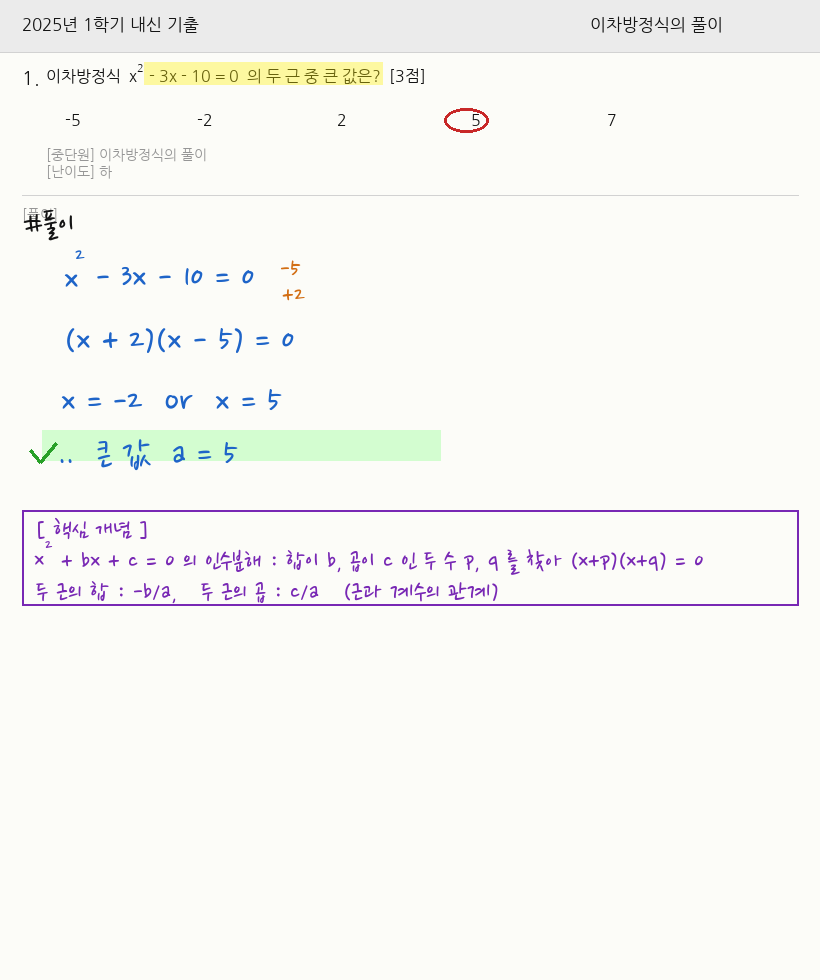
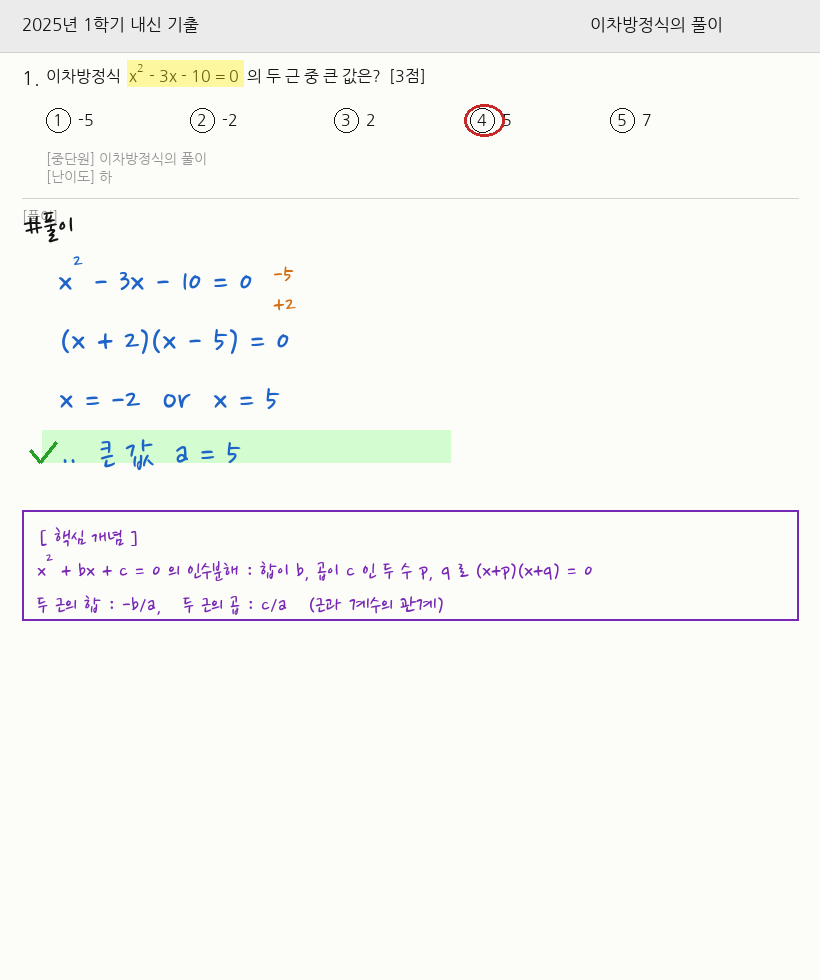
fix: layout — dynamic highlighter position, box padding, circled choice numbers

diff --git a/scripts/generate_examples.py b/scripts/generate_examples.py
@@ -8,13 +8,13 @@ REPO = Path(__file__).parent.parent
 FONTS_DIR = REPO / "fonts"
 OUT_DIR = REPO / "docs" / "examples"
 
-PEN = str(FONTS_DIR / "NanumPenScript-Regular.ttf")
+PEN   = str(FONTS_DIR / "NanumPenScript-Regular.ttf")
 GOTHIC = str(FONTS_DIR / "NanumGothic-Regular.ttf")
 
 W, H = 820, 980
-BG = (252, 252, 248)
-BLACK = (20, 20, 20)
-GRAY = (150, 150, 150)
+BG         = (252, 252, 248)
+BLACK      = (20, 20, 20)
+GRAY       = (150, 150, 150)
 LIGHT_GRAY = (210, 210, 210)
 
 BLUE   = (30, 100, 200)
@@ -39,132 +39,140 @@ def highlight(img, x1, y1, x2, y2, color):
     return base.convert("RGB")
 
 
-def math_width(draw, text, font, sup_font):
-    """Measure pixel width of a math string that uses ^ for superscripts."""
-    w = 0
-    for tok in re.split(r'(\^[0-9a-zA-Z]+)', text):
-        if tok.startswith('^'):
-            w += draw.textlength(tok[1:], font=sup_font)
-        else:
-            w += draw.textlength(tok, font=font)
-    return w
-
-
-def draw_math(draw, x, y, text, font, sup_font, fill, jamt=0):
-    """Draw math text with ^ rendered as raised superscript. Returns final x."""
-    sup_offset = int(font.size * 0.42)   # how far up the superscript sits
+def draw_math(draw, x, y, text, font, sup_font, fill):
+    """Draw math text; ^ marks superscript. No per-token jitter — call jit() before this."""
+    sup_offset = int(font.size * 0.40)
     cursor = x
     for tok in re.split(r'(\^[0-9a-zA-Z]+)', text):
         if tok.startswith('^'):
             sup = tok[1:]
-            jx, jy = jit(cursor, y - sup_offset, jamt)
-            draw.text((jx, jy), sup, font=sup_font, fill=fill)
+            draw.text((int(cursor), y - sup_offset), sup, font=sup_font, fill=fill)
             cursor += draw.textlength(sup, font=sup_font) + 1
         else:
-            jx, jy = jit(cursor, y, jamt)
-            draw.text((jx, jy), tok, font=font, fill=fill)
+            draw.text((int(cursor), y), tok, font=font, fill=fill)
             cursor += draw.textlength(tok, font=font)
-    return cursor
+    return int(cursor)
 
 
-# ──────────────────────────────────────────────
+def draw_choice(draw, x, y, n, label, font, fill):
+    """Draw a circled number + label. Returns x after the item."""
+    text = str(n)
+    tw = int(draw.textlength(text, font=font))
+    th = font.size
+    r  = max(tw, th) // 2 + 4
+    cx, cy = x + r, y + th // 2
+    draw.ellipse([cx - r, cy - r, cx + r, cy + r], outline=fill, width=1)
+    draw.text((cx - tw // 2, y), text, font=font, fill=fill)
+    lx = x + 2 * r + 4
+    draw.text((lx, y), " " + label, font=font, fill=fill)
+    return lx + int(draw.textlength(" " + label, font=font))
+
+
+# ────────────────────────────────────────────────────────────
 def make_input():
-    img = Image.new("RGB", (W, H), BG)
+    img  = Image.new("RGB", (W, H), BG)
     draw = ImageDraw.Draw(img)
 
     g_sm  = ImageFont.truetype(GOTHIC, 14)
     g_md  = ImageFont.truetype(GOTHIC, 17)
     g_lg  = ImageFont.truetype(GOTHIC, 19)
     g_q   = ImageFont.truetype(GOTHIC, 16)
-    g_sup = ImageFont.truetype(GOTHIC, 11)   # superscript for printed text
+    g_sup = ImageFont.truetype(GOTHIC, 11)
 
-    # Header
+    # ── Header ──────────────────────────────────────────────
     draw.rectangle([0, 0, W, 52], fill=(235, 235, 235))
     draw.line([(0, 52), (W, 52)], fill=LIGHT_GRAY, width=1)
     draw.text((22, 16), "2025년 1학기 내신 기출", font=g_md, fill=BLACK)
     draw.text((W - 230, 16), "이차방정식의 풀이", font=g_md, fill=BLACK)
 
-    # Question number
+    # ── Question ────────────────────────────────────────────
     draw.text((22, 68), "1.", font=g_lg, fill=BLACK)
+    # Measure prefix to know where the equation starts for highlighter
+    prefix   = "이차방정식  "
+    eq_str   = "x^2 - 3x - 10 = 0"
+    suffix   = "  의 두 근 중 큰 값은?  [3점]"
+    hl_x1    = 46 + int(draw.textlength(prefix, font=g_q)) - 2
+    hl_x2    = hl_x1 + int(draw.textlength(
+                   re.sub(r'\^[0-9a-zA-Z]+', '', eq_str), font=g_q)) + 14
+    qx = draw_math(draw, 46, 68, prefix + eq_str + suffix, g_q, g_sup, BLACK)
 
-    # Question text with superscript rendered manually
-    qx = 46
-    qy = 68
-    qx = draw_math(draw, qx, qy, "이차방정식  x^2 - 3x - 10 = 0  의 두 근 중 큰 값은?  [3점]",
-                   g_q, g_sup, BLACK)
+    # ── Answer choices (circled numbers drawn manually) ─────
+    CHOICE_Y = 112
+    choices  = [("-5", 46), ("-2", 190), ("2", 334), ("5", 470), ("7", 610)]
+    for i, (label, cx) in enumerate(choices, 1):
+        draw_choice(draw, cx, CHOICE_Y, i, label, g_q, BLACK)
 
-    # Answer choices — record x positions for circle later
-    choices = [("①", "-5"), ("②", "-2"), ("③", "2"), ("④", "5"), ("⑤", "7")]
-    cx_list = [46, 178, 318, 452, 588]
-    for (num, val), cx in zip(choices, cx_list):
-        draw.text((cx, 112), num + " " + val, font=g_q, fill=BLACK)
+    # ── Tags ────────────────────────────────────────────────
+    draw.text((46, 152), "[중단원] 이차방정식의 풀이", font=g_sm, fill=GRAY)
+    draw.text((46, 170), "[난이도] 하",               font=g_sm, fill=GRAY)
 
-    draw.text((46, 148), "[중단원] 이차방정식의 풀이", font=g_sm, fill=GRAY)
-    draw.text((46, 165), "[난이도] 하", font=g_sm, fill=GRAY)
-    draw.line([(22, 195), (W - 22, 195)], fill=LIGHT_GRAY, width=1)
-    draw.text((22, 208), "[풀이]", font=g_sm, fill=GRAY)
+    draw.line([(22, 198), (W - 22, 198)], fill=LIGHT_GRAY, width=1)
+    draw.text((22, 210), "[풀이]", font=g_sm, fill=GRAY)
 
-    return img, cx_list
+    return img, hl_x1, hl_x2
 
 
-def make_output(input_img, cx_list):
-    # Yellow highlight on the equation in the question
-    img = highlight(input_img, 144, 62, 382, 84, HL_YELLOW)
-    # Green highlight on final answer line (added later; placeholder y used)
-    img = highlight(img, 42, 430, 440, 460, HL_GREEN)
+def make_output(input_img, hl_x1, hl_x2):
+    # ── Highlights ──────────────────────────────────────────
+    # Yellow: key equation in the question (position computed dynamically)
+    img = highlight(input_img, hl_x1, 60, hl_x2, 86, HL_YELLOW)
+    # Green: final answer line (y pre-computed below = 438)
+    img = highlight(img, 42, 430, 450, 462, HL_GREEN)
 
     draw = ImageDraw.Draw(img)
 
-    pen    = ImageFont.truetype(PEN, 38)
-    pen_hd = ImageFont.truetype(PEN, 32)
-    pen_sm = ImageFont.truetype(PEN, 27)
-    pen_sup = ImageFont.truetype(PEN, 24)    # superscript for handwriting
+    pen     = ImageFont.truetype(PEN, 38)
+    pen_hd  = ImageFont.truetype(PEN, 32)
+    pen_sm  = ImageFont.truetype(PEN, 27)
+    pen_sup = ImageFont.truetype(PEN, 24)
 
-    # Solution header
-    draw.text(jit(22, 210, 1), "#풀이", font=pen_hd, fill=BLACK)
+    g_q   = ImageFont.truetype(GOTHIC, 16)   # reused for circle re-draw
 
-    # ── Step 1: original equation ──────────────────────────────
-    eq_end = draw_math(draw, *jit(60, 262, 2),
-                       "x^2 - 3x - 10 = 0", pen, pen_sup, BLUE, jamt=2)
+    # ── Solution header ─────────────────────────────────────
+    draw.text(jit(22, 212, 1), "#풀이", font=pen_hd, fill=BLACK)
 
-    # Orange factoring hint to the right (합이 -3, 곱이 -10인 두 수: -5, +2)
-    hx = int(eq_end) + 24
-    draw.text(jit(hx, 255, 1), "-5", font=pen_sm, fill=ORANGE)
-    draw.text(jit(hx, 283, 1), "+2", font=pen_sm, fill=ORANGE)
+    # ── Step 1 ──────────────────────────────────────────────
+    sx, sy = jit(60, 264, 2)
+    eq_end = draw_math(draw, sx, sy, "x^2 - 3x - 10 = 0", pen, pen_sup, BLUE)
 
-    # ── Step 2: factored form ──────────────────────────────────
-    draw_math(draw, *jit(60, 322, 2),
-              "(x + 2)(x - 5) = 0", pen, pen_sup, BLUE, jamt=2)
+    # Orange factoring hint: right of equation
+    hx = eq_end + 20
+    draw.text((hx,      sy - 2), "-5", font=pen_sm, fill=ORANGE)
+    draw.text((hx, sy + 28),     "+2", font=pen_sm, fill=ORANGE)
 
-    # ── Step 3: roots ─────────────────────────────────────────
-    draw_math(draw, *jit(60, 382, 2),
-              "x = -2  or  x = 5", pen, pen_sup, BLUE, jamt=2)
+    # ── Step 2 ──────────────────────────────────────────────
+    draw_math(draw, *jit(60, 324, 2), "(x + 2)(x - 5) = 0", pen, pen_sup, BLUE)
 
-    # ── Final answer (highlighted line) ───────────────────────
-    draw_math(draw, *jit(60, 437, 2),
-              "..  큰 값  a = 5", pen, pen_sup, BLUE, jamt=2)
+    # ── Step 3 ──────────────────────────────────────────────
+    draw_math(draw, *jit(60, 384, 2), "x = -2  or  x = 5", pen, pen_sup, BLUE)
 
-    # Green checkmark (drawn as two lines)
+    # ── Final answer ────────────────────────────────────────
+    draw_math(draw, *jit(60, 438, 2), "..  큰 값  a = 5", pen, pen_sup, BLUE)
+
+    # Green checkmark (two lines)
     draw.line([(30, 450), (40, 462)], fill=GREEN, width=3)
-    draw.line([(40, 462), (56, 443)], fill=GREEN, width=3)
+    draw.line([(40, 462), (56, 442)], fill=GREEN, width=3)
 
-    # Red circle around ④ 5
-    ax = cx_list[3] + 14
-    draw.ellipse([ax - 22, 108, ax + 22, 132], outline=RED, width=3)
+    # ── Red circle on answer choice ④ 5 ─────────────────────
+    # Choice ④ is at x=470. The circle in draw_choice has r≈12, center at 470+12=482
+    ax, ay = 484, 120
+    draw.ellipse([ax - 20, ay - 16, ax + 20, ay + 16], outline=RED, width=3)
 
-    # ── Purple concept box ────────────────────────────────────
+    # ── Purple concept box (padding: 16px inside) ───────────
+    pen_cs  = ImageFont.truetype(PEN, 24)
+    pen_css = ImageFont.truetype(PEN, 17)
+    PAD   = 16
     box_y = 510
-    draw.rectangle([22, box_y, W - 22, box_y + 95], outline=PURPLE, width=2)
-    draw.text(jit(36, box_y + 8, 1), "[ 핵심 개념 ]", font=pen_sm, fill=PURPLE)
-
-    def cbox_math(x, y, text):
-        draw_math(draw, *jit(x, y, 1), text, pen_sm,
-                  ImageFont.truetype(PEN, 18), PURPLE, jamt=1)
-
-    cbox_math(36, box_y + 38,
-              "x^2 + bx + c = 0 의 인수분해 : 합이 b, 곱이 c 인 두 수 p, q 를 찾아 (x+p)(x+q) = 0")
-    cbox_math(36, box_y + 68,
-              "두 근의 합 : -b/a,   두 근의 곱 : c/a   (근과 계수의 관계)")
+    box_h = 110
+    draw.rectangle([22, box_y, W - 22, box_y + box_h], outline=PURPLE, width=2)
+    draw.text(jit(22 + PAD, box_y + PAD, 1),
+              "[ 핵심 개념 ]", font=pen_cs, fill=PURPLE)
+    draw_math(draw, *jit(22 + PAD, box_y + PAD + 34, 1),
+              "x^2 + bx + c = 0 의 인수분해 : 합이 b, 곱이 c 인 두 수 p, q 로 (x+p)(x+q) = 0",
+              pen_cs, pen_css, PURPLE)
+    draw_math(draw, *jit(22 + PAD, box_y + PAD + 68, 1),
+              "두 근의 합 : -b/a,   두 근의 곱 : c/a   (근과 계수의 관계)",
+              pen_cs, pen_css, PURPLE)
 
     return img
 
@@ -173,11 +181,11 @@ def main():
     random.seed(42)
     OUT_DIR.mkdir(parents=True, exist_ok=True)
 
-    inp, cx_list = make_input()
+    inp, hl_x1, hl_x2 = make_input()
     inp.save(OUT_DIR / "input.png")
     print(f"Saved {OUT_DIR / 'input.png'}")
 
-    out = make_output(inp, cx_list)
+    out = make_output(inp, hl_x1, hl_x2)
     out.save(OUT_DIR / "output.png")
     print(f"Saved {OUT_DIR / 'output.png'}")
 
